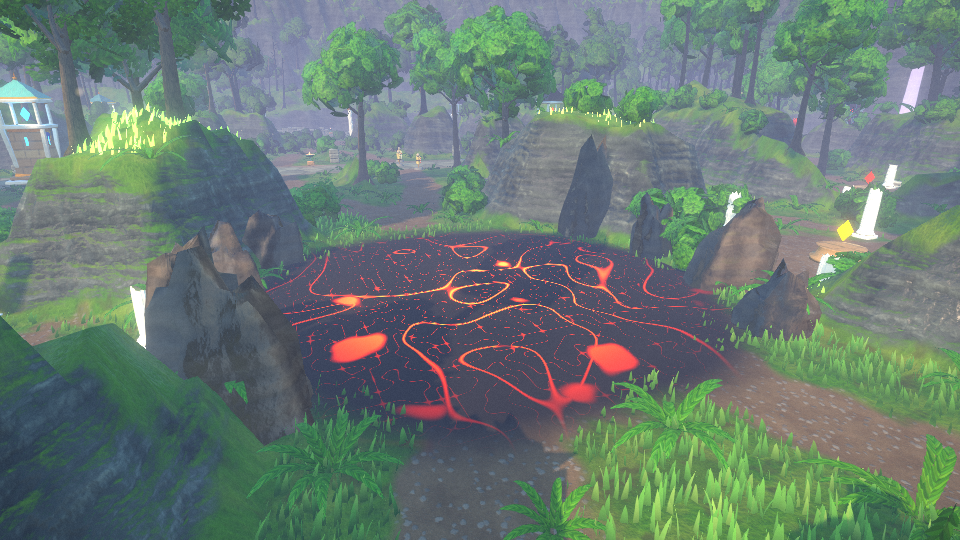
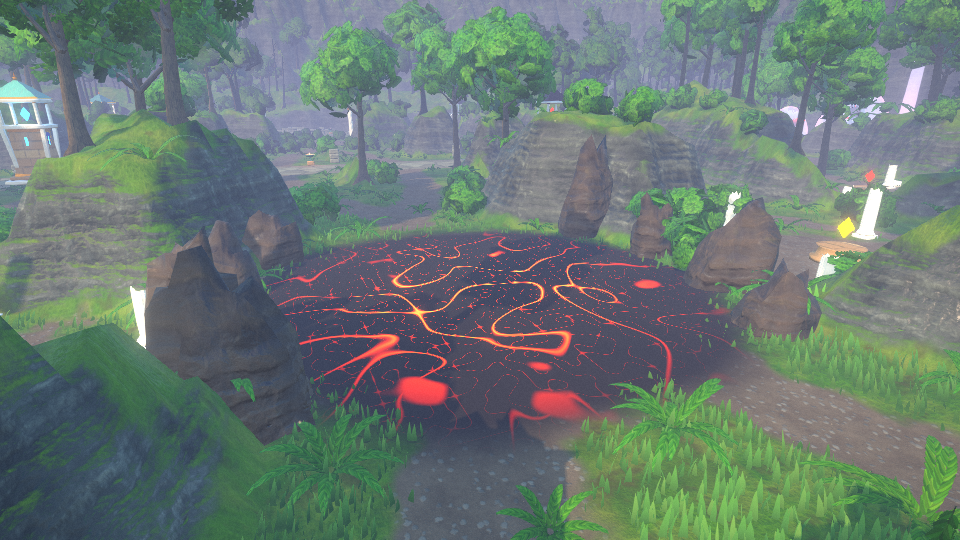
Look loop round 5: fix ridge glare, softer shields, clouds, muted paths; make mesh merging work again
mergeStatic skipped every mesh because three.js now gives Mesh a count
property, so towers, phoenixes and camps were drawing every part
separately. It now skips only instanced and skinned meshes.

Claude-Session: https://claude.ai/code/session_01CS3nLk7DN1dABPHrWdgKZ1

diff --git a/src/scene/Grass.ts b/src/scene/Grass.ts
@@ -132,7 +132,8 @@ export class Grass {
     mat.normalNode = transformNormalToView(normalize(mix(faceN.mul(faceDirection), vec3(0, 1, 0), 0.75)));
 
     const base = mix(vec3(0.05, 0.13, 0.03), vec3(0.08, 0.17, 0.035), variation);
-    const tipGreen = mix(vec3(0.22, 0.47, 0.07), vec3(0.4, 0.55, 0.11), smoothstep(0.6, 0.97, variation));
+    // sunlit tips must stay close to the ground's albedo, or exposed ridges glow
+    const tipGreen = mix(vec3(0.13, 0.3, 0.045), vec3(0.2, 0.34, 0.06), smoothstep(0.6, 0.97, variation));
     const col = mix(base, tipGreen, pow(h, float(0.9)));
     mat.colorNode = col;
     // rough enough that blades on sunward ridges don't flare with specular
@@ -142,7 +143,7 @@ export class Grass {
     // Fake subsurface: blades glow when the sun is behind them.
     const viewDir = normalize(pos.sub(cameraPosition));
     const sun = uniform(this.sunDirection);
-    const back = pow(dot(viewDir, sun.negate()).max(0), float(3)).mul(h).mul(0.1);
+    const back = pow(dot(viewDir, sun).max(0), float(3)).mul(h).mul(0.1);
     mat.emissiveNode = col.mul(vec3(1.0, 0.95, 0.7)).mul(back).mul(1.0);
     return mat;
   }

diff --git a/src/scene/structures/TitanModel.ts b/src/scene/structures/TitanModel.ts
@@ -3,7 +3,7 @@ import { GodModel, type LocomotionState } from '../../actors/GodModel';
 import type { Team } from '../../map/ConquestLayout';
 import { lathe } from '../Architecture';
 import type { MaterialLibrary } from '../Materials';
-import { clamp01, crackedStone, ease, Rubble, shieldMesh, TEAM_STYLE, TeamMaterials } from './common';
+import { clamp01, crackedStone, ease, mergeStatic, Rubble, shieldMesh, TEAM_STYLE, TeamMaterials } from './common';
 import type { StructureModel } from './TowerModel';
 
 /** Seconds from `attack()` to the moment the slam lands. */
@@ -84,6 +84,7 @@ export class TitanModel implements StructureModel {
     this.rubble = new Rubble(6.5, 30, [marble, lib.marble, lib.bronze], 700);
     this.rubble.group.position.y = DAIS_TOP;
     this.root.add(this.rubble.group);
+    mergeStatic(this.root, [this.body, this.shield, this.rubble.group]);
   }
 
   setShielded(on: boolean): void {

diff --git a/src/scene/structures/common.ts b/src/scene/structures/common.ts
@@ -86,8 +86,9 @@ export function shieldMesh(radius: number, height: number, glow: number): THREE.
   const fres = pow(float(1).sub(abs(dot(normalView, viewDir))), float(2.5));
   const bands = sin(positionLocal.y.mul(5).sub(time.mul(2.5))).mul(0.5).add(0.5);
   const hex = mx_noise_float(positionLocal.mul(2.2).add(vec3(0, time.mul(0.4), 0))).mul(0.5).add(0.5);
-  const a = fres.mul(0.9).add(bands.mul(0.05)).add(smoothstep(0.62, 0.7, hex).mul(0.08));
-  mat.colorNode = color(glow).mul(a).mul(2.2);
+  // a faint rim and drifting hex sparkle, so the structure inside stays readable
+  const a = fres.mul(0.55).add(bands.mul(0.02)).add(smoothstep(0.64, 0.7, hex).mul(0.05));
+  mat.colorNode = color(glow).mul(a).mul(1.1);
   const geo = new THREE.SphereGeometry(1, 48, 24, 0, Math.PI * 2, 0, Math.PI / 2);
   geo.scale(radius, height, radius);
   const m = new THREE.Mesh(geo, mat);

diff --git a/src/scene/Terrain.ts b/src/scene/Terrain.ts
@@ -134,7 +134,9 @@ export class Terrain {
     let L: any = {
       col: grassCol, nrm: mix(gA.normal, gB.normal, 0.4), rough: mix(gA.roughness, gB.roughness, 0.4), ao: gA.ao,
     };
-    L = lerp4(L, { col: dirt.color, nrm: dirt.normal, rough: dirt.roughness, ao: dirt.ao }, dW);
+    // muted, slightly olive earth so paths sit under the grass instead of glowing red
+    const dirtCol = mix(dirt.color, vec3(dot(dirt.color, vec3(0.3, 0.59, 0.11))), 0.35).mul(vec3(0.92, 0.95, 0.85));
+    L = lerp4(L, { col: dirtCol, nrm: dirt.normal, rough: dirt.roughness, ao: dirt.ao }, dW);
     // worn, slightly mossy grey-olive paving, darker than the temple's sandstone
     const pavedLum = dot(paved.color, vec3(0.3, 0.59, 0.11));
     // big, worn grey-olive slabs with soft seams, like the reference lanes

diff --git a/src/scene/merge.ts b/src/scene/merge.ts
@@ -15,7 +15,7 @@ export function mergeStatic(group: THREE.Object3D, keep: THREE.Object3D[] = []):
   const visit = (o: THREE.Object3D) => {
     if (kept.has(o)) return;
     const m = o as THREE.Mesh;
-    if (m.isMesh && !Array.isArray(m.material) && (m as any).count === undefined) {
+    if (m.isMesh && !Array.isArray(m.material) && !(m as THREE.InstancedMesh).isInstancedMesh && !(m as THREE.SkinnedMesh).isSkinnedMesh) {
       const g = (m.geometry.index ? m.geometry.toNonIndexed() : m.geometry.clone()).applyMatrix4(inv.clone().multiply(m.matrixWorld));
       let e = byMat.get(m.material);
       if (!e) byMat.set(m.material, (e = { geos: [], cast: false }));

diff --git a/src/scene/Foliage.ts b/src/scene/Foliage.ts
@@ -393,7 +393,7 @@ export class Foliage {
     // Fake subsurface: leaves glow when the sun is behind them.
     const viewDir = normalize(positionWorld.sub(cameraPosition));
     const sun = uniform(this.sunDirection);
-    const back = pow(max(dot(viewDir, sun.negate()), float(0)), float(4)).mul(0.3).add(0.03);
+    const back = pow(max(dot(viewDir, sun), float(0)), float(4)).mul(0.3).add(0.03);
     mat.emissiveNode = col.mul(vec3(1.0, 0.92, 0.55)).mul(back).mul(shade);
     mat.name = 'leaves';
     return mat;

diff --git a/src/scene/Environment.ts b/src/scene/Environment.ts
@@ -39,8 +39,8 @@ export class Environment {
     this.sky.rayleigh.value = 2.6;
     this.sky.mieCoefficient.value = 0.004;
     this.sky.mieDirectionalG.value = 0.82;
-    this.sky.cloudCoverage.value = 0.3;
-    this.sky.cloudDensity.value = 0.55;
+    this.sky.cloudCoverage.value = 0.48;
+    this.sky.cloudDensity.value = 0.75;
     this.sky.cloudElevation.value = 0.55;
     this.sky.cloudScale.value = 0.00028;
     this.sky.cloudSpeed.value = 0.00001;

diff --git a/src/scene/conquest/ConquestTerrain.ts b/src/scene/conquest/ConquestTerrain.ts
@@ -167,7 +167,9 @@ export function conquestTerrain(): ConquestTerrainDef {
       round: false,
       density: 0.6,
       maxHeight: 14,
-      reject: (x, z) => plaza.sample(x, z) < -0.5,
+      // no grass on the jungle wall tops: nobody walks there, the trees cover
+      // them, and sunlit tufts along the crests read as glowing fringes
+      reject: (x, z) => plaza.sample(x, z) < -0.5 || open.sample(x, z) < -3,
     },
   };
 }

diff --git a/src/scene/conquest/Props.ts b/src/scene/conquest/Props.ts
@@ -352,7 +352,7 @@ export class ConquestProps {
     light.position.y = 2;
     pit.add(light);
     this.lights.push(light);
-    mergeStatic(pit);
+    mergeStatic(pit, [floor]);
     this.group.add(pit);
   }
 }
